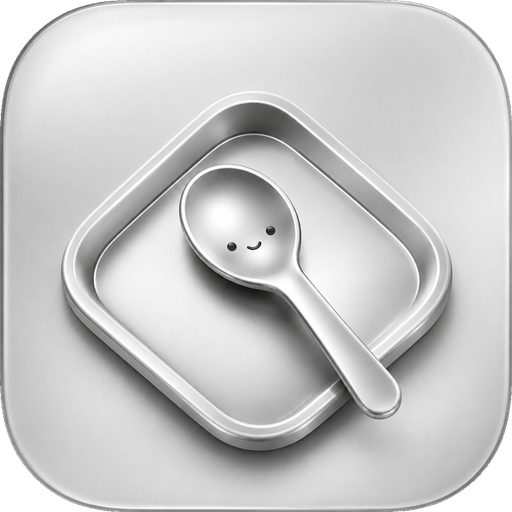
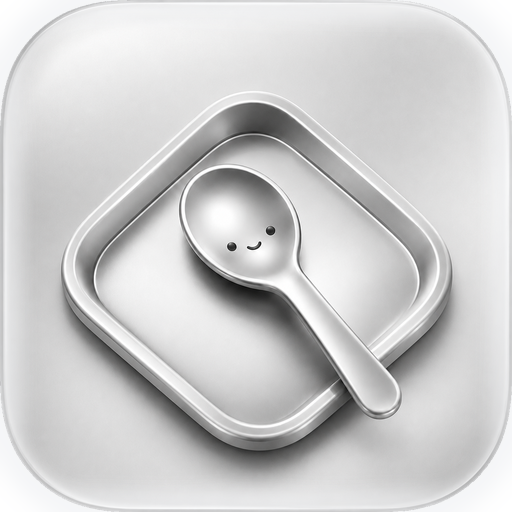
.

diff --git a/qr.html b/qr.html
@@ -5,8 +5,8 @@
   <meta name="viewport" content="width=device-width, initial-scale=1.0, maximum-scale=1.0, user-scalable=no">
   <title>Lunch Check : 점심 QR</title>
   <link rel="manifest" href="/manifest.json">
-  <link rel="icon" href="/img/icon.png" type="image/png">
-  <link rel="apple-touch-icon" href="/img/icon.png">
+  <link rel="icon" href="/img/icon.png?v=20260610-edgefade2" type="image/png">
+  <link rel="apple-touch-icon" href="/img/icon.png?v=20260610-edgefade2">
 
   <script src="https://cdn.tailwindcss.com"></script>
   <script src="https://cdnjs.cloudflare.com/ajax/libs/qrcodejs/1.0.0/qrcode.min.js"></script>
@@ -122,7 +122,7 @@
   <div class="max-w-4xl mx-auto min-h-screen flex flex-col warm-shell shadow-2xl">
     <div class="flex justify-between items-center pt-4 px-4 sm:px-6">
       <div class="flex items-center gap-2 text-slate-700 font-black">
-        <span class="brand-plate brand-plate-sm"><img src="/img/icon.png" alt="Lunch Check 아이콘" class="w-10 h-10 rounded-2xl brand-icon"></span>
+        <span class="brand-plate brand-plate-sm"><img src="/img/icon.png?v=20260610-edgefade2" alt="Lunch Check 아이콘" class="w-10 h-10 rounded-2xl brand-icon"></span>
         <span>Lunch Check</span>
       </div>
       <a href="/scanner.html" class="quiet-link font-black py-2 px-3 rounded-2xl text-sm flex items-center gap-1 shadow-sm transition-colors">
@@ -131,7 +131,7 @@
     </div>
 
     <header class="pb-7 pt-6 px-5 text-center">
-      <span class="brand-plate brand-plate-lg mb-4"><img src="/img/icon.png" alt="Lunch Check" class="w-28 h-28 mx-auto rounded-[1.6rem] brand-icon"></span>
+      <span class="brand-plate brand-plate-lg mb-4"><img src="/img/icon.png?v=20260610-edgefade2" alt="Lunch Check" class="w-28 h-28 mx-auto rounded-[1.6rem] brand-icon"></span>
       <h1 class="text-4xl sm:text-5xl font-black text-slate-900 leading-tight">Lunch Check</h1>
       <p class="text-lg sm:text-xl text-slate-500 mt-3 break-keep font-bold">이름과 전화번호 뒷자리로 오늘의 점심 QR을 발급합니다</p>
     </header>

diff --git a/admin.html b/admin.html
@@ -6,7 +6,7 @@
   <title>Lunch Check 관리자 메뉴</title>
   <script src="https://cdn.tailwindcss.com"></script>
   <script src="https://cdn.jsdelivr.net/npm/xlsx-js-style@1.2.0/dist/xlsx.bundle.js"></script>
-  <link rel="icon" href="/img/icon.png" type="image/png">
+  <link rel="icon" href="/img/icon.png?v=20260610-edgefade2" type="image/png">
   <link rel="stylesheet" href="CSS/style.css">
   <style>
     input[type="date"]::-webkit-calendar-picker-indicator { cursor: pointer; opacity: 0.7; transition: 0.2s; }
@@ -38,7 +38,7 @@
   <div id="main-content" class="max-w-7xl mx-auto bg-white rounded-3xl shadow-xl overflow-hidden flex flex-col min-h-[90vh] hidden">
     <header class="p-5 lg:p-6 border-b bg-gray-50 flex flex-col lg:flex-row lg:justify-between lg:items-center gap-4 shrink-0">
       <div class="flex items-center gap-3">
-        <h1 class="text-2xl lg:text-3xl font-black text-gray-800 flex items-center gap-2"><img src="/img/icon.png" alt="Lunch Check" class="w-10 h-10 rounded-2xl"> <span>👥 Lunch Check 관리자</span></h1>
+        <h1 class="text-2xl lg:text-3xl font-black text-gray-800 flex items-center gap-2"><img src="/img/icon.png?v=20260610-edgefade2" alt="Lunch Check" class="w-10 h-10 rounded-2xl"> <span>👥 Lunch Check 관리자</span></h1>
         <span id="admin-email-label" class="hidden lg:inline-flex text-xs font-bold text-gray-400 bg-white border px-2 py-1 rounded-lg"></span>
       </div>
       <div class="flex flex-wrap gap-2 items-center">

diff --git a/scanner.html b/scanner.html
@@ -14,7 +14,7 @@
   </script>
   <script src="https://cdn.tailwindcss.com"></script>
   <script src="https://unpkg.com/html5-qrcode" type="text/javascript"></script>
-  <link rel="icon" href="/img/icon.png" type="image/png">
+  <link rel="icon" href="/img/icon.png?v=20260610-edgefade2" type="image/png">
   <link rel="stylesheet" href="CSS/style.css">
 
   <style>
